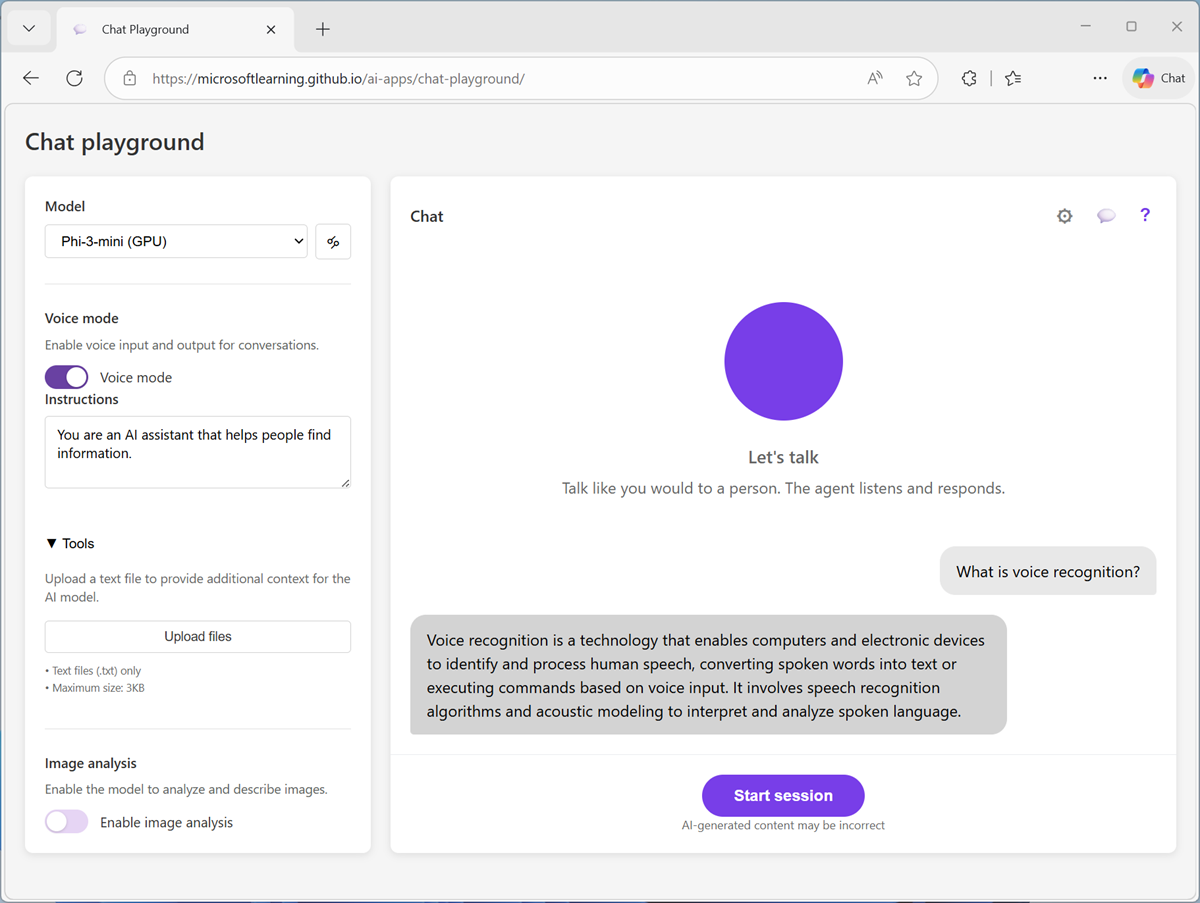
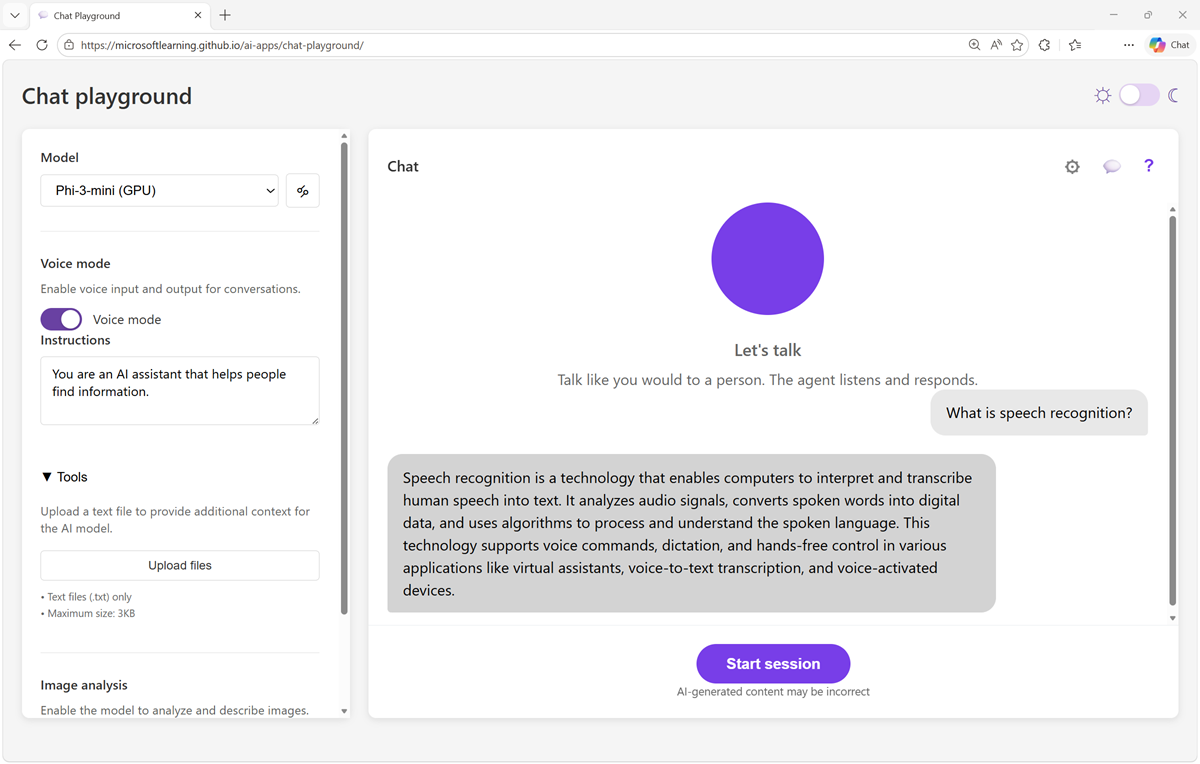
Updated for Phi 2 and None models

diff --git a/Instructions/exercises/04-speech.md b/Instructions/exercises/04-speech.md
@@ -11,17 +11,18 @@ lab:
 
 In this exercise, you'll interact with a generative AI model using speech. The goal of this exercise is to explore speech-to-text (STT) and text-to-speech (TTS) functionality with a generative AI model.
 
-To complete this lab, you need a modern browser on a computer with sufficient hardware resources to load and run the models used by the AI agent app. On older or low-spec computers, the app may run very slowly or experience errors.
+To complete this lab, you need a modern browser on a computer with sufficient hardware resources to load and run the models used by the *Chat Playground* app. On older or low-spec computers, the app may run very slowly or experience errors.
 
-**Minimum spec**
+> **Minimum spec**
+>
+> - 64-bit CPU, 4+ physical cores (8 logical threads preferred)
+> - GPU required for the default Phi 3-mini model.
+> - 8+ GB system RAM (16 GB recommended)
+> - Enough storage to cache ~300MB–800MB model assets
+> - Latest Chrome / Edge / Firefox with WASM SIMD enabled/available (WebGPU support is required for the default model; a WASM-based fallback is provided)
+> - Audio hardware (mic and speaker) required for speech functionality
 
-- 64-bit CPU, 4+ physical cores (8 logical threads preferred)
-- 8+ GB system RAM (16 GB recommended)
-- Enough storage to cache ~300MB–800MB model assets
-- Latest Chrome / Edge / Firefox with WASM SIMD enabled/available (WebGPU support is required for the default model; a WASM-based fallback is provided)
-- Audio hardware (mic and speaker)
-
-> **Tip**: This lab works best using a headset or a high quality mic and headphones. Ambient noise may cause failures - though in some cases, the issue may be that your browser setup does not support the Web Speech API for voice recognition.
+If your computer does not meet these requirements, the CPU-based fallback model may not run successfully. However, the app does support a failsafe "Basic" mode in which no model is used; which you may be able to use.
 
 This exercise should take approximately **15** minutes to complete.
 
@@ -29,7 +30,7 @@ This exercise should take approximately **15** minutes to complete.
 
 Let's start by chatting with a generative AI model. In this exercise, we'll use a browser-based application to chat with a small language model that is useful for general chat solutions in low bandwidth scenarios. The app also uses Web Speech APIs for speech recognition and synthesis.
 
-> **Note**: If your browser supports WebGPU, the chat playground uses the *Microsoft Phi 3 Mini* model running on your computer's GPU. If not, the SmolLM2 model is used, running on CPU - with reduced response-generation quality. Performance for either model may vary depending on the available memory in your computer and your network bandwidth to download the model. On older or low-spec devices, you may get more reliable behavior by switching to the CPU-based model even if WebGPU is available. After opening the app, use the **?** (*About this app*) icon in the chat area to find out more.
+> **Note**: If your browser supports WebGPU, the chat playground uses the *Microsoft Phi 3 Mini* model running on your computer's GPU. If not, the *Microsoft Phi 2* model is used, running on CPU - with reduced response-generation quality. Performance for either model may vary depending on the available memory in your computer and your network bandwidth to download the model. On older or low-spec devices, you may get more reliable behavior by switching to the *None* model even if CPU or GPU is available. After opening the app, use the **?** (*About this app*) icon in the chat area to find out more.
 
 1. In a web browser, open the **[Chat Playground](https://aka.ms/chat-playground){:target="_blank"}** at `https://aka.ms/chat-playground`.
 
@@ -45,11 +46,11 @@ Let's start by chatting with a generative AI model. In this exercise, we'll use 
 
 The Chat playground application supports *voice mode*, in which you can interact with a generative AI model using speech.
 
-> **Note**: Voice mode depends on browser support for the WebSpeech API and access to voices for speech synthesis. The app should work successfully in most modern browsers. If your browser configuration is not compatible, you may experience errors; and ultimately voice mode may not work for you.
+> **Note**: Voice mode depends on browser support for the Web Speech API and access to voices for speech synthesis, with a fallback to an offline speech-to-text model. The app should work successfully in most modern browsers. If your browser configuration is not compatible, you may experience errors; and ultimately voice mode may not work for you.
 
 1. In the pane on the left, under the selected model, enable **Voice mode**
 
-    If the **Configuration** pane is not displayed automatically on the right, open it using the **Configuration** (**&#9881;**) button above the Chat pane.
+    If the **Configuration** pane is not displayed automatically on the right, open it using the **Configuration** (**&#9881;**) button above the **Chat** pane.
 
 1. In the configuration pane, view the voices in the **Voice** drop-down list.
 
@@ -71,7 +72,7 @@ The app supports both speech recognition and speech synthesis, enabling you to h
 
 1. In the **Chat** pane, use the **Start session** button to start a conversation with the model. If prompted, allow access to the system microphone.
 
-1. When the app status is **Listening...**, say something like "*What is speech recognition?*" and wait for a response.
+1. When the app status is **Listening...**, say something like "*What's speech recognition?*" and wait for a response.
 
     > **Tip**: If an error occurs or the app can't detect any speech input using the default Web Speech functionality, it will automatically failover to a local speech recognition model and prompt you to retry.
 
@@ -83,7 +84,7 @@ The app supports both speech recognition and speech synthesis, enabling you to h
 
     > **Note**: If no voices are available in your browser, the reponse will not be vocalized.
 
-1. After the response has been spoken, the app switches back to the **Listening...** state. Continue the conversation by speaking again.
+1. After the response has been spoken, the app switches back to the **Listening...** state. Continue the conversation by speaking again (for example, "*What's speech synthesis?*").
 
     At any point, you can use the **[CC]** button to see a transcript of the conversation so far.
 
